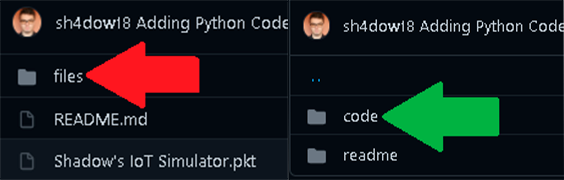
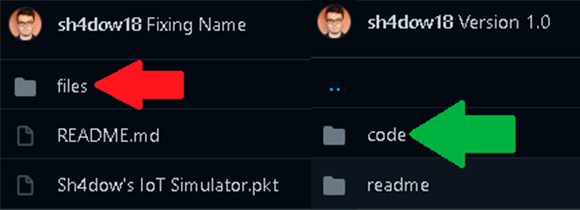
Version 1.0 Double Arranged

diff --git a/README.md b/README.md
@@ -87,7 +87,7 @@ git clone https://github.com/sh4dow18/SIoTs.git
 
 In Linux in some cases the command "sudo" is needed before the previous command.
 
-To use the "Shadow's IoT Simulator.pkt" program you have to double click on it, with
+To use the "Sh4dow's IoT Simulator.pkt" program you have to double click on it, with
 Cisco Packet Tracer installed.
 
 This program will display the following:
